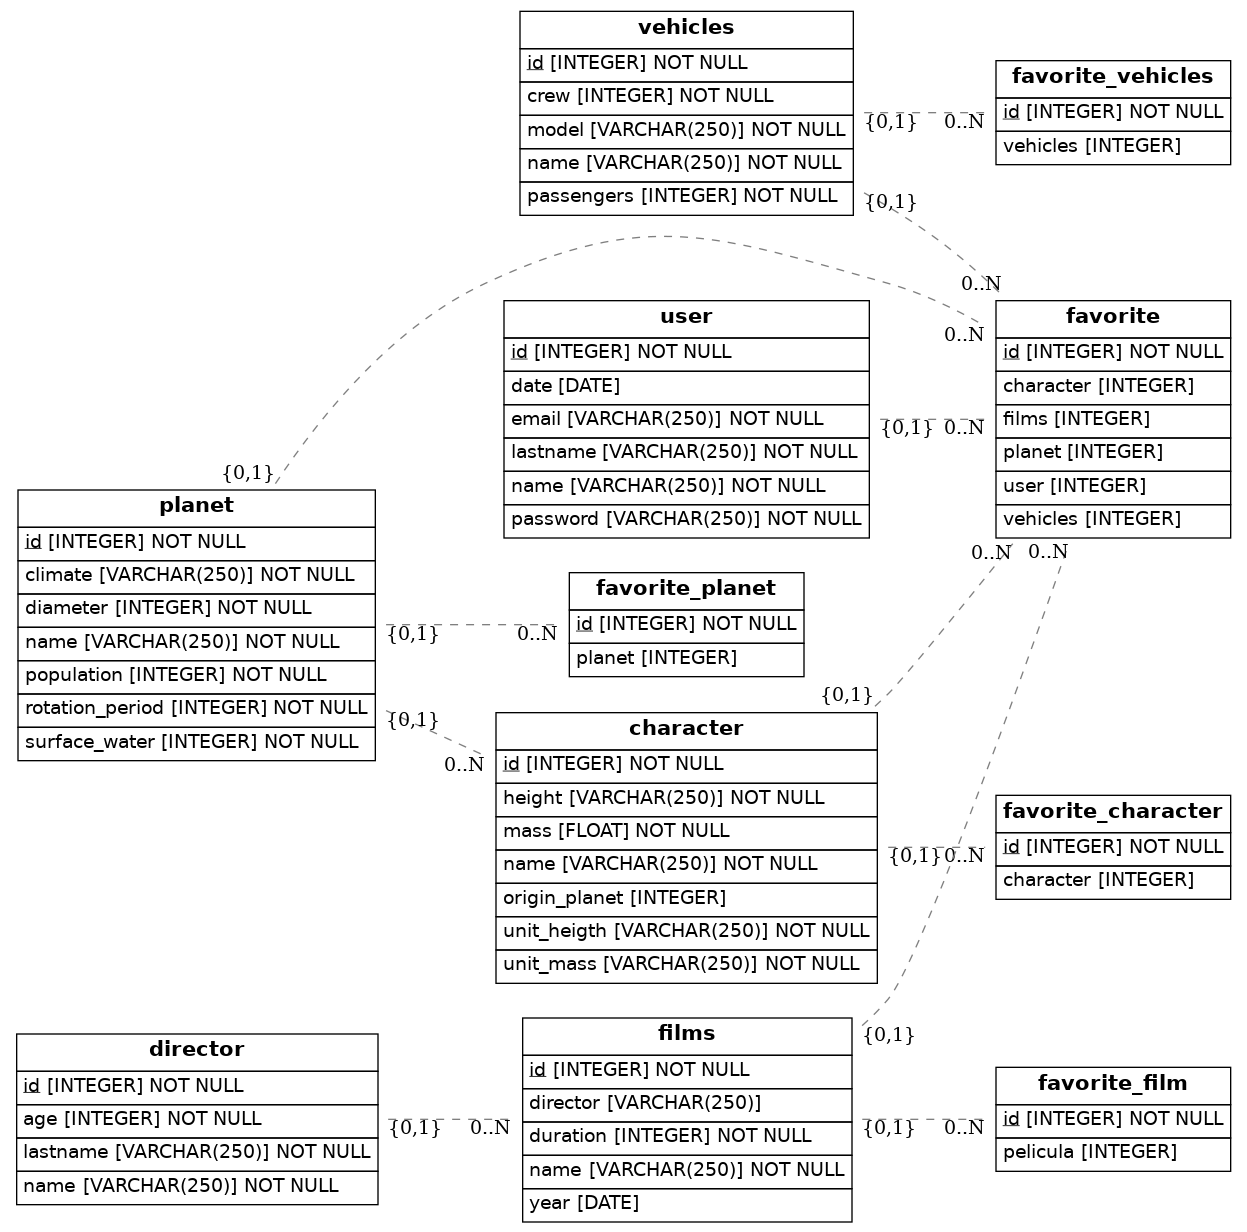
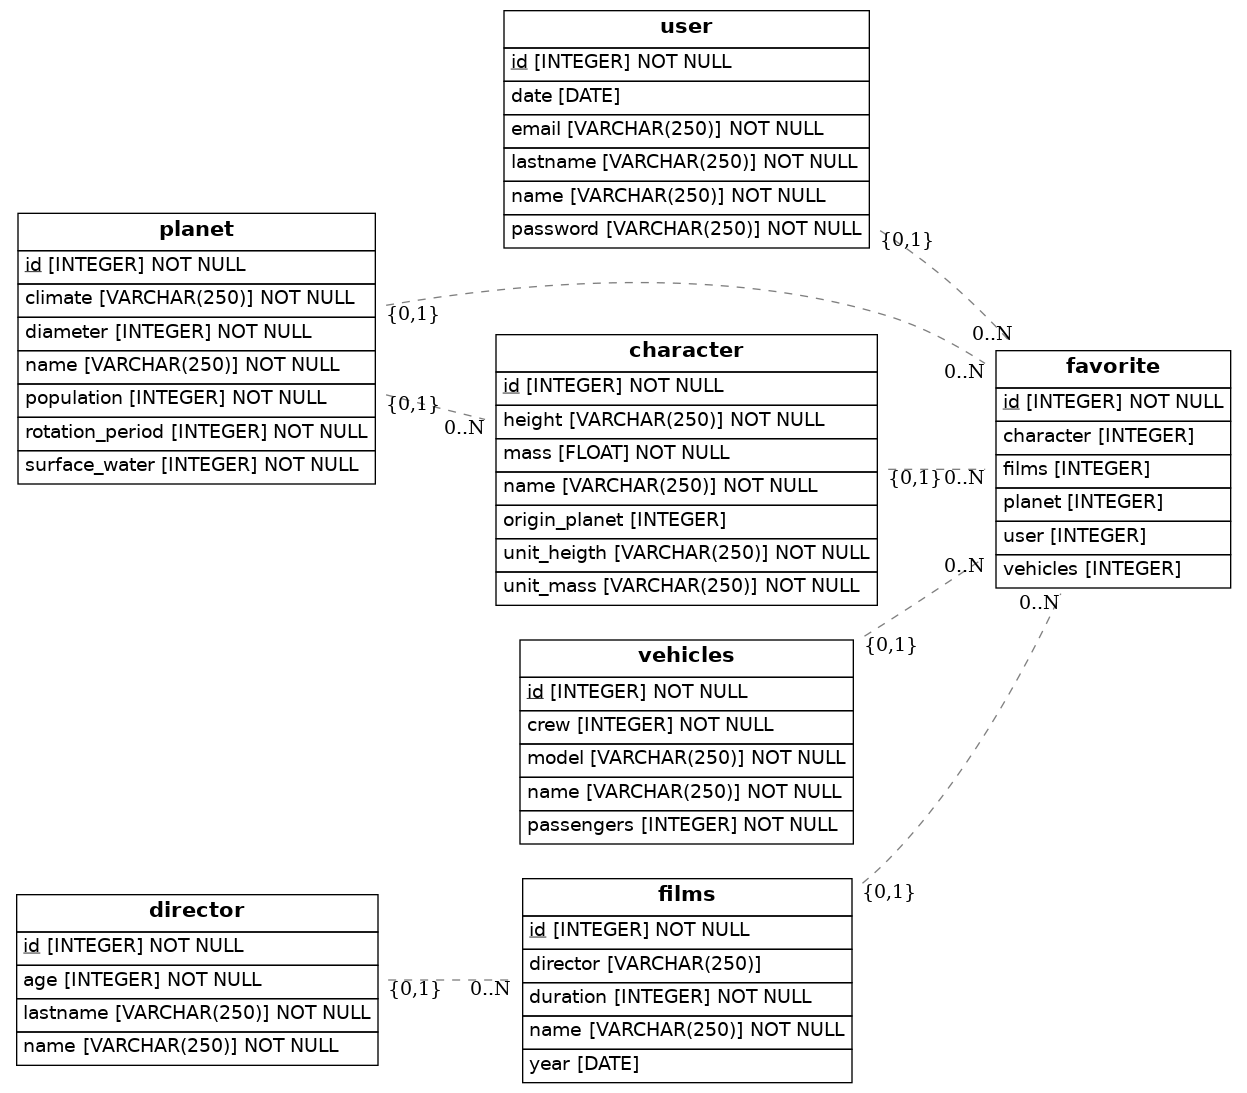
Corregido error de tablas sobrantes

diff --git a/src/models.py b/src/models.py
@@ -58,40 +58,7 @@ class vehicles(Base):
 
     def to_dict(self):
         return {}
-    
-class Favorite_Planet(Base):
-    __tablename__ = 'favorite_planet'
-    id = Column(Integer, primary_key=True)
-    planet = Column(Integer, ForeignKey("planet.id"))
-    
 
-    def to_dict(self):
-        return {}
-    
-class Favorite_Vehicle(Base):
-    __tablename__ = 'favorite_vehicles'
-    id = Column(Integer, primary_key=True)
-    vehicles = Column(Integer, ForeignKey("vehicles.id"))
-
-
-    def to_dict(self):
-        return {}
-    
-class Favorite_Character(Base):
-    __tablename__ = 'favorite_character'
-    id = Column(Integer, primary_key=True)
-    character = Column(Integer, ForeignKey("character.id"))
-
-    def to_dict(self):
-        return {}
-    
-class Favorite_Film(Base):
-    __tablename__ = 'favorite_film'
-    id = Column(Integer, primary_key=True)
-    pelicula = Column(Integer, ForeignKey("films.id"))
-
-    def to_dict(self):
-        return {}
 
 class Films(Base):
     __tablename__ = 'films'
